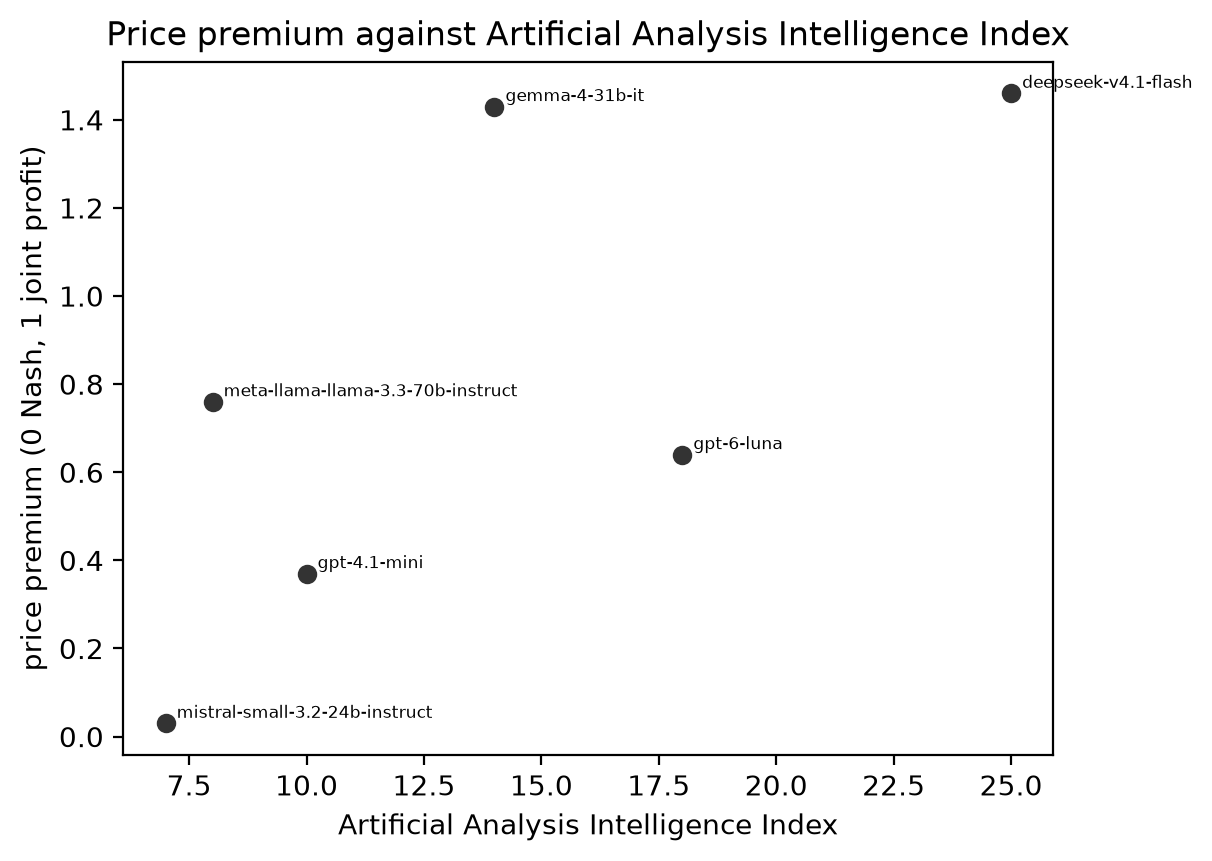
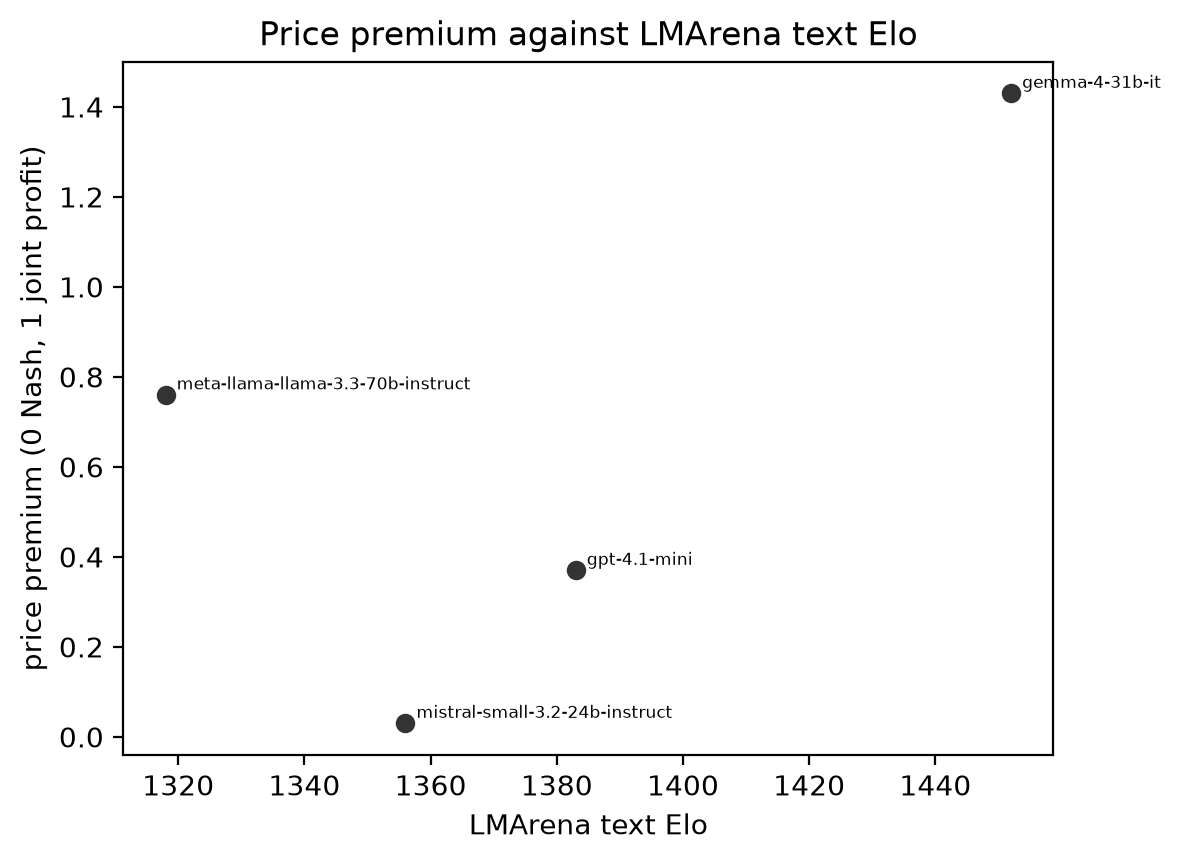
Drop estimated and other-variant scores, and chart against Arena Elo by default
Artificial Analysis's estimated index scores (GPT-4.1 mini, Gemma, Llama) and DeepSeek's max-effort GPQA are now blank with notes, and notes no longer carry figures without a quote. With the index down to three models, the capability charts default to the Arena text Elo (four models from one source) and are redrawn.

diff --git a/reports/capability/build.py b/reports/capability/build.py
@@ -29,7 +29,7 @@ NAMES = {
 
 def main(argv=None):
     parser = argparse.ArgumentParser()
-    parser.add_argument("--benchmark", default="aa_intelligence_index", choices=NAMES)
+    parser.add_argument("--benchmark", default="lmarena_text_elo", choices=NAMES)
     parser.add_argument("--runs", nargs="+", default=RUNS)
     parser.add_argument("--out", default=HERE)
     args = parser.parse_args(argv)
